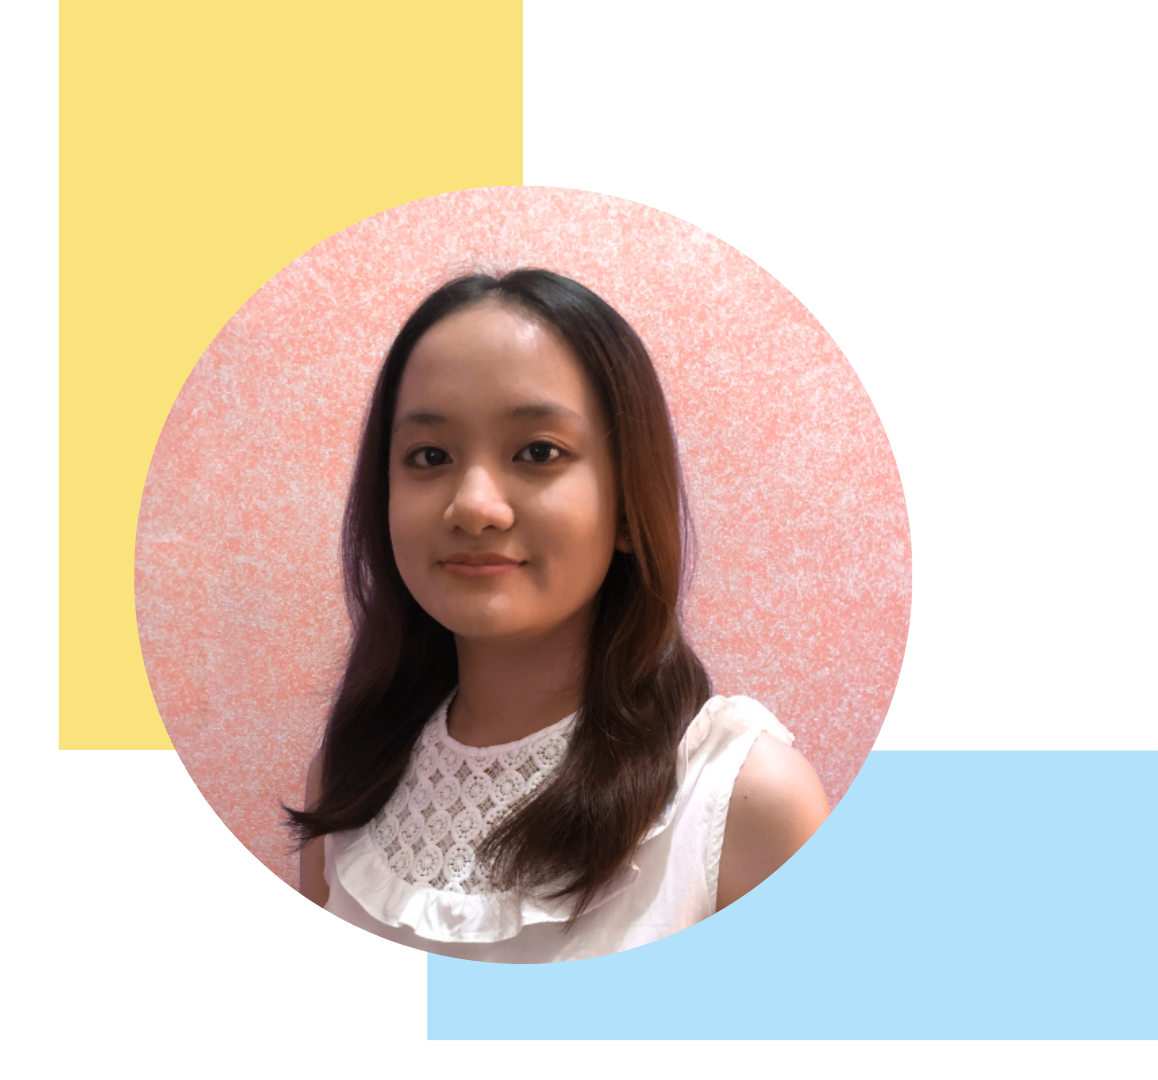
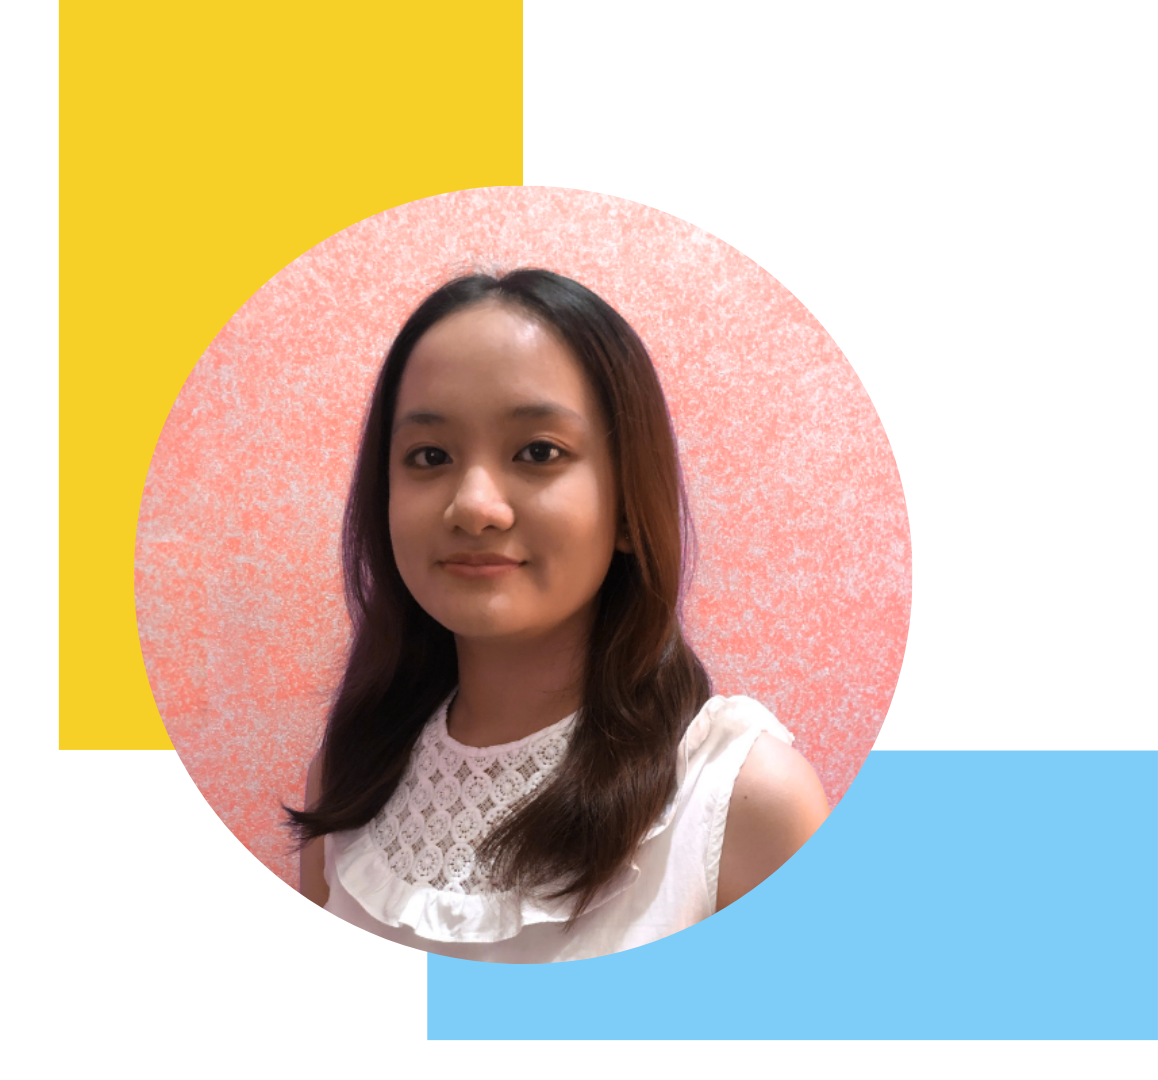
docs: Added documentation to html and css file; ui: Changed featured photo

Changed region(s): [[0.0311, 0.0, 0.4663, 0.7028], [0.342, 0.6722, 1.0, 0.9778]]

diff --git a/paleracio-u2l-exercise02.html b/paleracio-u2l-exercise02.html
@@ -8,43 +8,44 @@
     </head>
     
     <body>
-        <div id="navbar">
+        <div id="navbar">                      <!-- contains the navbar -->
             <img src="img/logo.png" id="logo-navbar">
             <p class="label"><a href="#about-container" class="label-underline">about</a></p>
             <p class="label"><a href="#header-project" class="label-underline">projects</a></p>
             <p class="label"><a href="#contact-container" class="label-underline">contact</a></p>
         </div>
 
-        <div id="home-container">
-            <div id="home-text">
+        <div id="home-container">                      <!-- home section -->
+            <div id="home-text">                         <!-- text in the home section -->
                 <p id="hello">Hello!</p>
                 <p id="intro">I’m Arianne Paleracio, a creative specializing in web design and programming.</p>
                 <br/>
                 <p id="see-btn"><a href="#about-container" class="scroll-btn-underline">see more ↓</a></p>
             </div>
-            <div id="home-photo">
+            <div id="home-photo">                      <!-- personal/featured photo -->
                 <img src="img/featured-photo.png" id="photo">
             </div>
         </div>
 
-        <div id="about-container">
-            <div id="about-bit">
+        <div id="about-container">                      <!-- contains the about section (together w/ the skills) -->
+            <div id="about-bit">                      <!-- "a bit about me" text -->
                 <p class="header-gen">A bit about me&nbsp;—</p>
                 <p class="body-about">Hey there! My full name is Arianne Mae Paleracio, age 22, residing in San Pedro, Laguna. I am a graduating student from the University of the Philippines - Los Baños, taking up BS Computer Science. I finished my high school studies at Muntinlupa Science High School, placing 4th. I am a DOST-SEI Merit Scholarship grantee as well.</p>
                 <p class="body-about">As a CS student, I gained extensive knowledge on various programming subjects, but I also have a passion for art. Integrating the two, I realized my passion for web design and have been working as a front-end programmer since then.</p>
             </div>
 
-            <div id="about-skills">
+            <div id="about-skills">                      <!-- "skills" section -->
                 <p class="header-gen">Skills&nbsp;—</p>
                 <div id="skills-column">
-                    <div id="first-column">
+                    <div id="first-column">                      <!-- first column contains the hard skills -->
                         <p class="first-element">Knowledgeable on Python, Java, C, HTML/CSS, & JavaScript</p>
-                        <p>Testing & debugging</p>
+                        <p>Debugging</p>
+                        <p>Git version control</p>
                         <p>Responsive design</p>
                     </div>
-                    <div id="second-column">
-                        <p class="first-element">Attention to detail</p>
-                        <p>Adaptability</p>
+                    <div id="second-column">                      <!-- second column contains the soft skills -->
+                        <p class="first-element">Time management</p>
+                        <p>Problem solving</p>
                         <p>Communication skills</p>
                         <p>Teamwork</p>
                     </div>
@@ -54,31 +55,31 @@
 
         <p id="header-project">Projects&nbsp;—</p>
 
-        <div class="project-container">
-            <div class="circle"></div>
-            <div class="project-info">
+        <div class="project-container">                      <!-- PROJECT 1; container for each project (same format as lines 70, 82, 94) -->
+            <div class="circle"></div>                             <!-- the circle serves as a bullet for each project -->
+            <div class="project-info">                              <!-- contains info about the project -->
                 <span class="project-title">Three Solvers</span>
                 &nbsp;&nbsp;&nbsp;&nbsp;&nbsp;                
                 <span class="project-year">2023</span>
                 <p class="project-body">As my project submission for CMSC 150, titled “Numerical and Symbolic Computation,” I programmed and designed a website that includes solvers for Polynomial Regression, Quadratic Spline Interpolation, and Simplex (minimization).</p>
                 <p class="project-view"><a href="#" target="_blank" class="view-underline">View my project →</a></p>
             </div>
-            <img src="img/project1.png" class="project-photo">
+            <img src="img/project1.png" class="project-photo">          <!-- preview photo of the project -->
         </div>
 
-        <div class="project-container">
+        <div class="project-container">             <!-- PROJECT 2 -->
             <div class="circle"></div>
             <div class="project-info">
                 <span class="project-title">Self-Introduction</span>
                 &nbsp;&nbsp;&nbsp;&nbsp;&nbsp;                
                 <span class="project-year">2021</span>
-                <p class="project-body">For my Empowering Technologies subject in senior high school, my groupmates and I created a multi-page website that introduces each of us. It includes personal details such as our families and friends, hobbies, etc.</p>
+                <p class="project-body">For my Empowering Technologies subject in senior high school, my groupmates and I created a multi-page website that introduced each of us. It includes personal details such as our families and friends, hobbies, interests, etc.</p>
                 <p class="project-view"><a href="#" target="_blank" class="view-underline">View my project →</a></p>
             </div>
             <img src="img/project2.png" class="project-photo">
         </div>
 
-        <div class="project-container">
+        <div class="project-container">             <!-- PROJECT 3 -->
             <div class="circle"></div>
             <div class="project-info">
                 <span class="project-title">Sample Business Website</span>
@@ -90,36 +91,36 @@
             <img src="img/project3.png" class="project-photo">
         </div>
 
-        <div class="project-container">
+        <div class="project-container">             <!-- PROJECT 4 -->
             <div class="circle"></div>
             <div class="project-info">
                 <span class="project-title">Text Animation</span>
                 &nbsp;&nbsp;&nbsp;&nbsp;&nbsp;                
                 <span class="project-year">2021</span>
-                <p class="project-body">For my Empowering Technologies subject in senior high school, I also created a webpage that makes use of text animation and audio, making it look like a video.</p>
+                <p class="project-body">For my Empowering Technologies subject in senior high school, I also created a webpage that makes use of text animation and audio.</p>
                 <p class="project-view"><a href="#" target="_blank" class="view-underline">View my project →</a></p>
             </div>
             <img src="img/project4.png" class="project-photo">
         </div>
 
-        <p id="back-btn"><a href="#home-container" class="scroll-btn-underline">back to top ↑</a></p>
+        <p id="back-btn"><a href="#home-container" class="scroll-btn-underline">back to top ↑</a></p>       <!-- back to top button -->
 
-        <div id="contact-container">
+        <div id="contact-container">                    <!-- contacts section -->
             <p class="header-gen">Contact me&nbsp;—</p>
 
-            <div id="contact-main">
-                <div id="contact-call">
+            <div id="contact-main">                         <!-- contains the main info -->
+                <div id="contact-call">                     <!-- call info -->
                     <p class="contact">CALL</p>
                     <p class="contact-no-copy">0917 152 7555 / 8868 3623</p>
                 </div>
-                <div id="contact-socials">
+                <div id="contact-socials">                  <!-- social media account links -->
                     <p class="contact">SOCIALS</p>
                     <a href="mailto:arianne.paleracio@gmail.com" target="_blank"><img src="img/email.png" class="socials-icon"></a>
                     <a href="https://www.facebook.com/ariannemae.paleracio.7" target="_blank"><img src="img/fb.png" class="socials-icon"></a>
                     <a href="https://www.instagram.com/arimae.pal/" target="_blank"><img src="img/ig.png" class="socials-icon"></a>
                     <a href="https://github.com/adpaleracio" target="_blank"><img src="img/github.png" class="socials-icon"></a>
                 </div>
-                <div id="contact-copyright">
+                <div id="contact-copyright">                <!-- copyright info -->
                     <img src="img/logo.png" id="logo-contact">
                     <p class="contact-no-copy">Copyright © 2024 Arianne Paleracio. All Rights Reserved.</p>
                 </div>

diff --git a/styles.css b/styles.css
@@ -1,4 +1,4 @@
-body{
+body{                           /* background image */
     margin: 0;
     background-image: url('img/background.png');
     background-repeat: no-repeat;
@@ -6,7 +6,7 @@ body{
     background-size: cover;
 }
 
-/*----------------------------------------------------------*/
+/*---------- NAVBAR STYLES ----------*/
 
 #navbar{
     position: fixed;
@@ -60,7 +60,7 @@ body{
     height: 100%;
 }
 
-/*----------------------------------------------------------*/
+/*---------- "HOME" STYLES ----------*/
 
 #home-container{
     display: flex;
@@ -125,7 +125,7 @@ body{
     float: right;
 }
 
-/*----------------------------------------------------------*/
+/*---------- "ABOUT" & "SKILLS" STYLES ----------*/
 
 #about-container{
     display: flex;
@@ -182,7 +182,7 @@ body{
     margin-top: 0px;
 }
 
-/*----------------------------------------------------------*/
+/*---------- "PROJECTS" STYLES ----------*/
 
 #header-project{
     font-size: 30px;
@@ -266,7 +266,7 @@ body{
     margin-left: 190px;
 }
 
-/*----------------------------------------------------------*/
+/*---------- "CONTACT ME" STYLES ----------*/
 
 #contact-container{
     background: rgba(247, 208, 39, 0.6);
